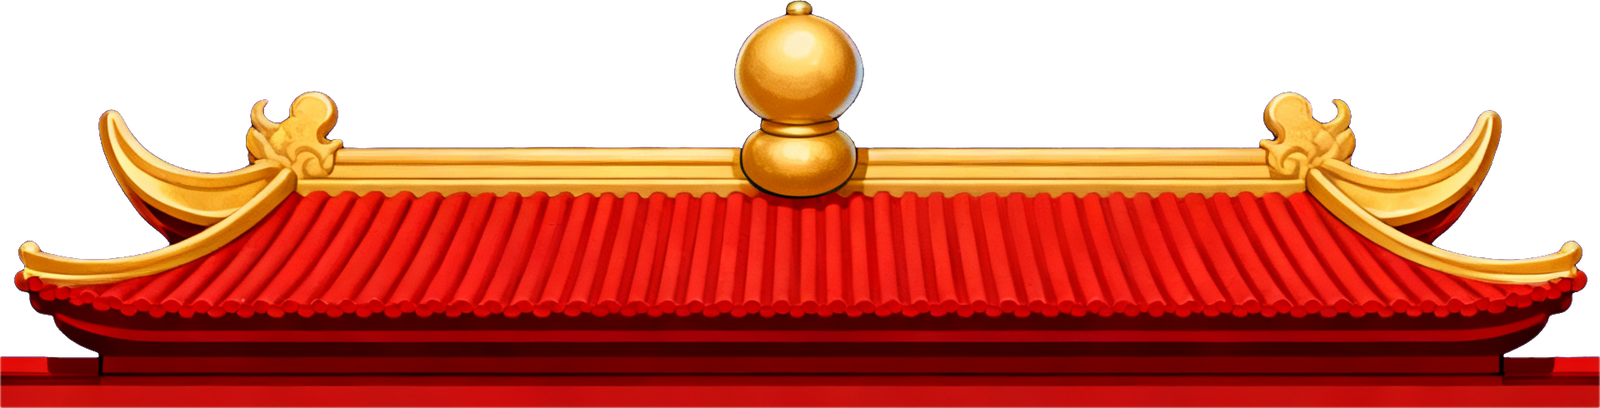
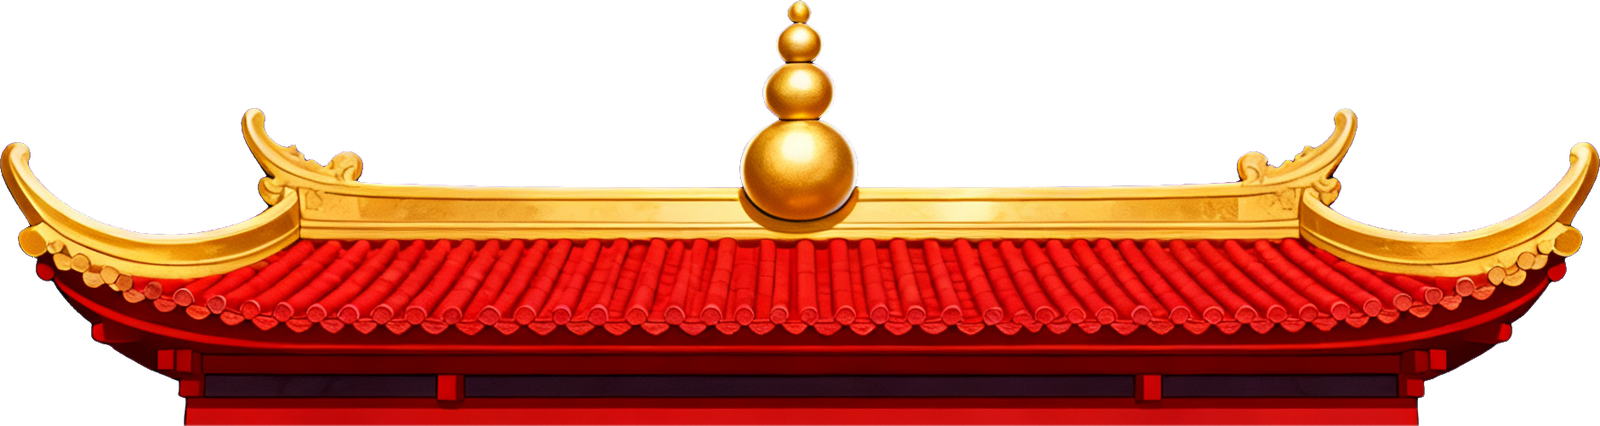
fix(assets): 修复骑兵棕脸/绿尾/马下阴影 + 悟空脚下灵气丝 + 宫檐宝顶头重脚轻
- unit-cavalry: 重生成(纯白马+白尾、正常肤色清晰脸、绿色只在骑士)；受限洪泛清除马身下的地面阴影盘
- hero-wukong: 定点擦除脚下/金箍棒底的悬浮灵气丝(按"上方无深色实体支撑"判据)，保留原立绘不重生成
- palace-roof-band: 重生成，葫芦宝顶改回标准比例(下球大、上球小、中间束腰)
- gen.mjs: 修正写死的废弃 public/assets 输出路径→src/game-assets；补 id 过滤与抠图/缩放链
- gen-palace-unified.mjs: 强化宝顶形状提示词
- 三张素材已 tos-upload、manifest-generated.ts 更新(CDN 均 200)

diff --git a/web/src/game-assets/manifest-generated.ts b/web/src/game-assets/manifest-generated.ts
@@ -41,7 +41,7 @@ export const HASHED_URLS: Record<string, string> = {
   "hero-tieshan.png": "https://user-growth.tos-cn-shanghai.volces.com/dev/xy/hero-tieshan-4c12ff94.png",
   "hero-ttg.png": "https://user-growth.tos-cn-shanghai.volces.com/dev/xy/hero-ttg-af240603.png",
   "hero-wenshu.png": "https://user-growth.tos-cn-shanghai.volces.com/dev/xy/hero-wenshu-78027ab7.png",
-  "hero-wukong.png": "https://user-growth.tos-cn-shanghai.volces.com/dev/xy/hero-wukong-eb7fcec0.png",
+  "hero-wukong.png": "https://user-growth.tos-cn-shanghai.volces.com/dev/xy/hero-wukong-6ac08259.png",
   "icon-merit.png": "https://user-growth.tos-cn-shanghai.volces.com/dev/xy/icon-merit-5a330c9e.png",
   "icon-stamina.png": "https://user-growth.tos-cn-shanghai.volces.com/dev/xy/icon-stamina-c5ed6fd4.png",
   "item-shovel.png": "https://user-growth.tos-cn-shanghai.volces.com/dev/xy/item-shovel-b46306bf.png",
@@ -89,7 +89,7 @@ export const HASHED_URLS: Record<string, string> = {
   "monster-minion.png": "https://user-growth.tos-cn-shanghai.volces.com/dev/xy/monster-minion-6bc5a826.png",
   "palace-camp-body.png": "https://user-growth.tos-cn-shanghai.volces.com/dev/xy/palace-camp-body-223885f7.png",
   "palace-camp-roof.png": "https://user-growth.tos-cn-shanghai.volces.com/dev/xy/palace-camp-roof-81b2a462.png",
-  "palace-roof-band.png": "https://user-growth.tos-cn-shanghai.volces.com/dev/xy/palace-roof-band-dd0806fb.png",
+  "palace-roof-band.png": "https://user-growth.tos-cn-shanghai.volces.com/dev/xy/palace-roof-band-37e9bdd6.png",
   "palace-title-plaque.png": "https://user-growth.tos-cn-shanghai.volces.com/dev/xy/palace-title-plaque-12052f18.png",
   "pvp-bg.jpg": "https://user-growth.tos-cn-shanghai.volces.com/dev/xy/pvp-bg-f4bbfd74.jpg",
   "rank-star-off.png": "https://user-growth.tos-cn-shanghai.volces.com/dev/xy/rank-star-off-b059013e.png",
@@ -118,7 +118,7 @@ export const HASHED_URLS: Record<string, string> = {
   "skill-pas-zhuwang.png": "https://user-growth.tos-cn-shanghai.volces.com/dev/xy/skill-pas-zhuwang-65c09294.png",
   "tangseng.png": "https://user-growth.tos-cn-shanghai.volces.com/dev/xy/tangseng-4ef058f7.png",
   "unit-archer.png": "https://user-growth.tos-cn-shanghai.volces.com/dev/xy/unit-archer-9c313d60.png",
-  "unit-cavalry.png": "https://user-growth.tos-cn-shanghai.volces.com/dev/xy/unit-cavalry-33a62c56.png",
+  "unit-cavalry.png": "https://user-growth.tos-cn-shanghai.volces.com/dev/xy/unit-cavalry-3b044730.png",
   "unit-monkey.png": "https://user-growth.tos-cn-shanghai.volces.com/dev/xy/unit-monkey-4602fe4c.png",
   "unit-spear.png": "https://user-growth.tos-cn-shanghai.volces.com/dev/xy/unit-spear-cfa5188e.png",
 };
